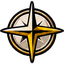
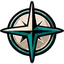
별=하늘색, 대호수=짙은 청록, 보냐텔리 그림→츠바이(남색), 세븐↔디에치 교체, 생크 그림→공방 해결사 심볼 추가
Claude-Session: https://claude.ai/code/session_0129mVL4gjhd4gQcmxGXW23v

diff --git a/src/ui.js b/src/ui.js
@@ -581,14 +581,15 @@ export function startUI(E,app){
   const symImg=(id,big)=>{const b=symBase(id,big);if(!/^spec/.test(id))return b;const pvx=(typeof decoPv==='function')?decoPv():null,hex=pvx!=null?D.colors[pvx].hex:(typeof G!=='undefined'&&G&&G.ch&&G.ch.color)||'#c9a35a',key=id+'|'+(big?1:0)+'|'+hex;if(typeof TINT[key]==='string'&&TINT[key]!=='pending')return TINT[key];symTint(b,hex,key);return b};
   const SYMS=[{id:'thumb',n:'엄지'},{id:'index',n:'검지'},{id:'middle',n:'중지'},{id:'ring',n:'약지'},{id:'pinky',n:'소지'},{id:'spec1',n:'특색 (가)'},{id:'spec2',n:'특색 (나)'},{id:'spec3',n:'특색 (다)'},
     /* 협회 8 · 날개 6 · 사무소 2: 이야기(2막)를 끝낼 때의 소속으로 얻는다. 이미지는 assets/symbol/<id>.png */
-    ...['하나','츠바이','트레스','시','생크','리우','세븐','디에치'].map((n,i)=>({id:'as_'+(i+1),n:n+' 협회'})).filter(x=>!['as_2','as_4','as_6'].includes(x.id)),   // 츠바이·시·리우는 새 이미지가 올 때까지 뺀다
+    ...['하나','츠바이','트레스','시','생크','리우','세븐','디에치'].map((n,i)=>({id:'as_'+(i+1),n:n+' 협회'})).filter(x=>!['as_4','as_5','as_6'].includes(x.id)),   // 시·생크·리우는 새 이미지가 올 때까지 뺀다
     ...[['wg_k','K사 날개'],['wg_r','R사 날개'],['wg_w','W사 날개'],['wg_n','N사 날개'],['wg_j','J사 날개'],['wg_g','G사 날개']].map(([id,n])=>({id,n})),
     {id:'of_yun',n:'윤 사무소'},{id:'of_lamp',n:'가로등 사무소'},{id:'of_tg',n:'투귀 사무소'},{id:'of_rusk',n:'러스크 사무소'},{id:'of_ch',n:'찰스 사무소'},
     /* 출생·칭호로 얻는 심볼 */
-    {id:'jb_taboo',n:'금기사냥꾼'},{id:'bi_bona',n:'보냐텔리 가문'},{id:'bi_lake',n:'대호수로 나간 자'},{id:'bi_blood',n:'혈귀'},{id:'bi_star',n:'별에 선택받은 자'}];
+    {id:'jb_taboo',n:'금기사냥꾼'},{id:'jb_ws',n:'공방 해결사'},   /* 보냐텔리 가문(bi_bona)은 새 이미지가 올 때까지 뺀다 */
+    {id:'bi_lake',n:'대호수로 나간 자'},{id:'bi_blood',n:'혈귀'},{id:'bi_star',n:'별에 선택받은 자'}];
   /* 기록실의 심볼 칸: 어떻게 얻는지와 얻은 심볼 이미지. 이미지가 준비된 심볼부터 목록에 오른다 */
   const SYMDOC={thumb:'엄지 조직에서 직위를 올려, 그 소속인 채로 이야기(2막)를 끝낸다',index:'검지 조직에서 직위를 올려, 그 소속인 채로 이야기(2막)를 끝낸다',middle:'중지 조직에서 직위를 올려, 그 소속인 채로 이야기(2막)를 끝낸다',ring:'약지 조직에서 직위를 올려, 그 소속인 채로 이야기(2막)를 끝낸다',pinky:'정식 소지 소속으로 이야기(2막)를 끝낸다 (서브 직업 형태의 소지는 인정하지 않는다)',spec1:'특색을 얻을 때 세 모양 중 하나를 골라 두고, 이야기(2막)를 끝낸다',spec2:'특색을 얻을 때 세 모양 중 하나를 골라 두고, 이야기(2막)를 끝낸다',spec3:'특색을 얻을 때 세 모양 중 하나를 골라 두고, 이야기(2막)를 끝낸다'};
-  Object.assign(SYMDOC,Object.fromEntries(SYMS.filter(x=>/^as_/.test(x.id)).map(x=>[x.id,x.n+'에서 직위를 올려, 그 소속인 채로 이야기(2막)를 끝낸다'])),Object.fromEntries(SYMS.filter(x=>/^wg_/.test(x.id)).map(x=>[x.id,x.n+'에서 직위를 올려, 그 소속인 채로 이야기(2막)를 끝낸다'])),{of_yun:'윤 사무소 소속으로 이야기(2막)를 끝낸다',of_lamp:'가로등 사무소 소속으로 이야기(2막)를 끝낸다',of_tg:'투귀 사무소 소속으로 이야기(2막)를 끝낸다',of_rusk:'러스크 사무소 소속으로 이야기(2막)를 끝낸다',of_ch:'찰스 사무소 소속으로 이야기(2막)를 끝낸다',jb_taboo:'N사 날개의 동부 출신으로 직위를 끝까지 올려 금기사냥꾼이 된 채 이야기(2막)를 끝낸다',bi_bona:'보냐텔리 가문으로 태어나 이야기(2막)를 끝낸다',bi_lake:'대호수로 나간 자로 태어나 이야기(2막)를 끝낸다',bi_blood:'혈귀가 된 채로 이야기(2막)를 끝낸다',bi_star:'별에 선택받은 자로 태어나 이야기(2막)를 끝낸다'});
+  Object.assign(SYMDOC,Object.fromEntries(SYMS.filter(x=>/^as_/.test(x.id)).map(x=>[x.id,x.n+'에서 직위를 올려, 그 소속인 채로 이야기(2막)를 끝낸다'])),Object.fromEntries(SYMS.filter(x=>/^wg_/.test(x.id)).map(x=>[x.id,x.n+'에서 직위를 올려, 그 소속인 채로 이야기(2막)를 끝낸다'])),{of_yun:'윤 사무소 소속으로 이야기(2막)를 끝낸다',of_lamp:'가로등 사무소 소속으로 이야기(2막)를 끝낸다',of_tg:'투귀 사무소 소속으로 이야기(2막)를 끝낸다',of_rusk:'러스크 사무소 소속으로 이야기(2막)를 끝낸다',of_ch:'찰스 사무소 소속으로 이야기(2막)를 끝낸다',jb_taboo:'N사 날개의 동부 출신으로 직위를 끝까지 올려 금기사냥꾼이 된 채 이야기(2막)를 끝낸다',jb_ws:'공방 해결사로 이야기(2막)를 끝낸다',bi_bona:'보냐텔리 가문으로 태어나 이야기(2막)를 끝낸다',bi_lake:'대호수로 나간 자로 태어나 이야기(2막)를 끝낸다',bi_blood:'혈귀가 된 채로 이야기(2막)를 끝낸다',bi_star:'별에 선택받은 자로 태어나 이야기(2막)를 끝낸다'});
   /* 이야기(2막)가 끝나는 순간의 소속으로 얻는 심볼 id. 소속을 옮기며 모으는 것은 인정하지 않는다 */
   const symOfChar=c=>{const out=[],a=c&&c.aff;if(!c)return out;
     const FING={'엄지':'thumb','검지':'index','중지':'middle','약지':'ring','소지':'pinky'};
@@ -597,6 +598,7 @@ export function startUI(E,app){
       else if(a.type==='office'&&!a.own){const o=SYMS.find(x=>/^of_/.test(x.id)&&x.n===a.name);if(o)out.push(o.id)}
       else{const nm=affName(c),m=SYMS.find(x=>/^(as_|wg_)/.test(x.id)&&x.n===nm);if(m&&(c.promos||0)>=1)out.push(m.id)}}
     {const ORIG={'보냐텔리 가문':'bi_bona','대호수로 나간 자':'bi_lake','별에 선택받은 자':'bi_star'};if(c.o&&ORIG[c.o.n])out.push(ORIG[c.o.n])}   // 출생
+    if(E.isWs&&E.isWs(c))out.push('jb_ws');                                                                           // 공방 해결사
     if(c.race==='hyeolgwi')out.push('bi_blood');                                                                       // 혈귀가 된 채로
     if(c.title==='금기사냥꾼'||(c.titleLog||[]).includes('금기사냥꾼'))out.push('jb_taboo');   // N사 날개 동부 출신의 최고 직위
     return out};
